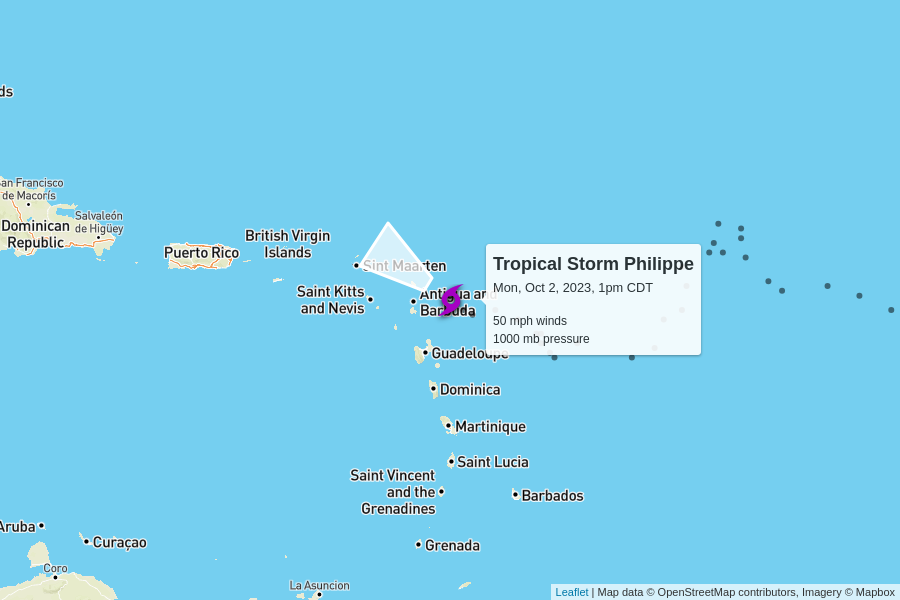
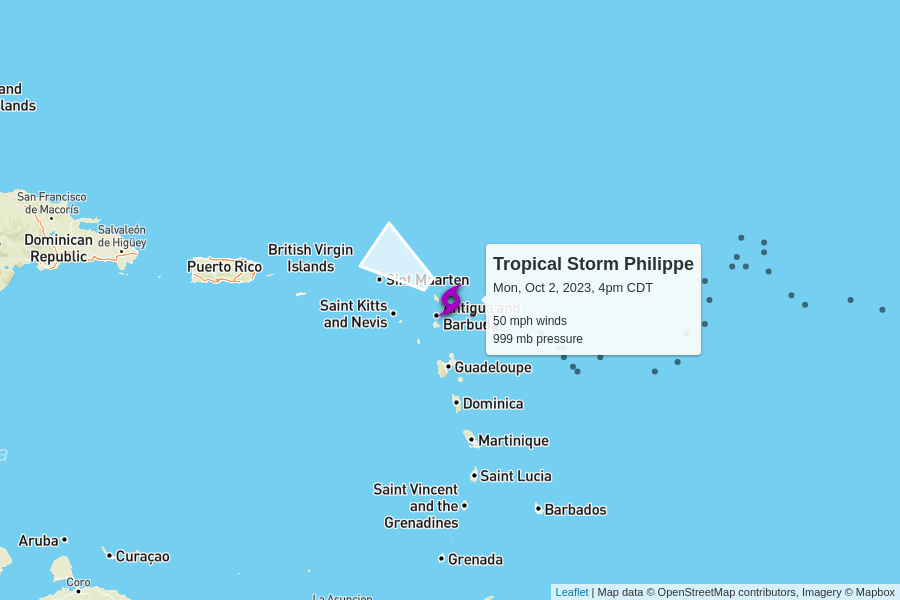
automatic update

diff --git a/docs/index.html b/docs/index.html
@@ -102,7 +102,7 @@
         <td colspan="6" class="storm category-0" >
           <h2>
             Tropical Storm Philippe
-            <p class="updated">last updated <span data-time>2023-10-02T18:00:00.000Z</span></p>
+            <p class="updated">last updated <span data-time>2023-10-02T21:00:00.000Z</span></p>
           </h2>
         </td>
       </tr>
@@ -118,7 +118,7 @@
       <tr>
         <td class="spacer"></td>
         <td>50 mph<br>0 mph since last update</td>
-        <td>1000 mb<br>0 mb since last update</td>
+        <td>999 mb<br>-1 mb since last update</td>
         <td>
           7 mph to the northwest
           <br/>
